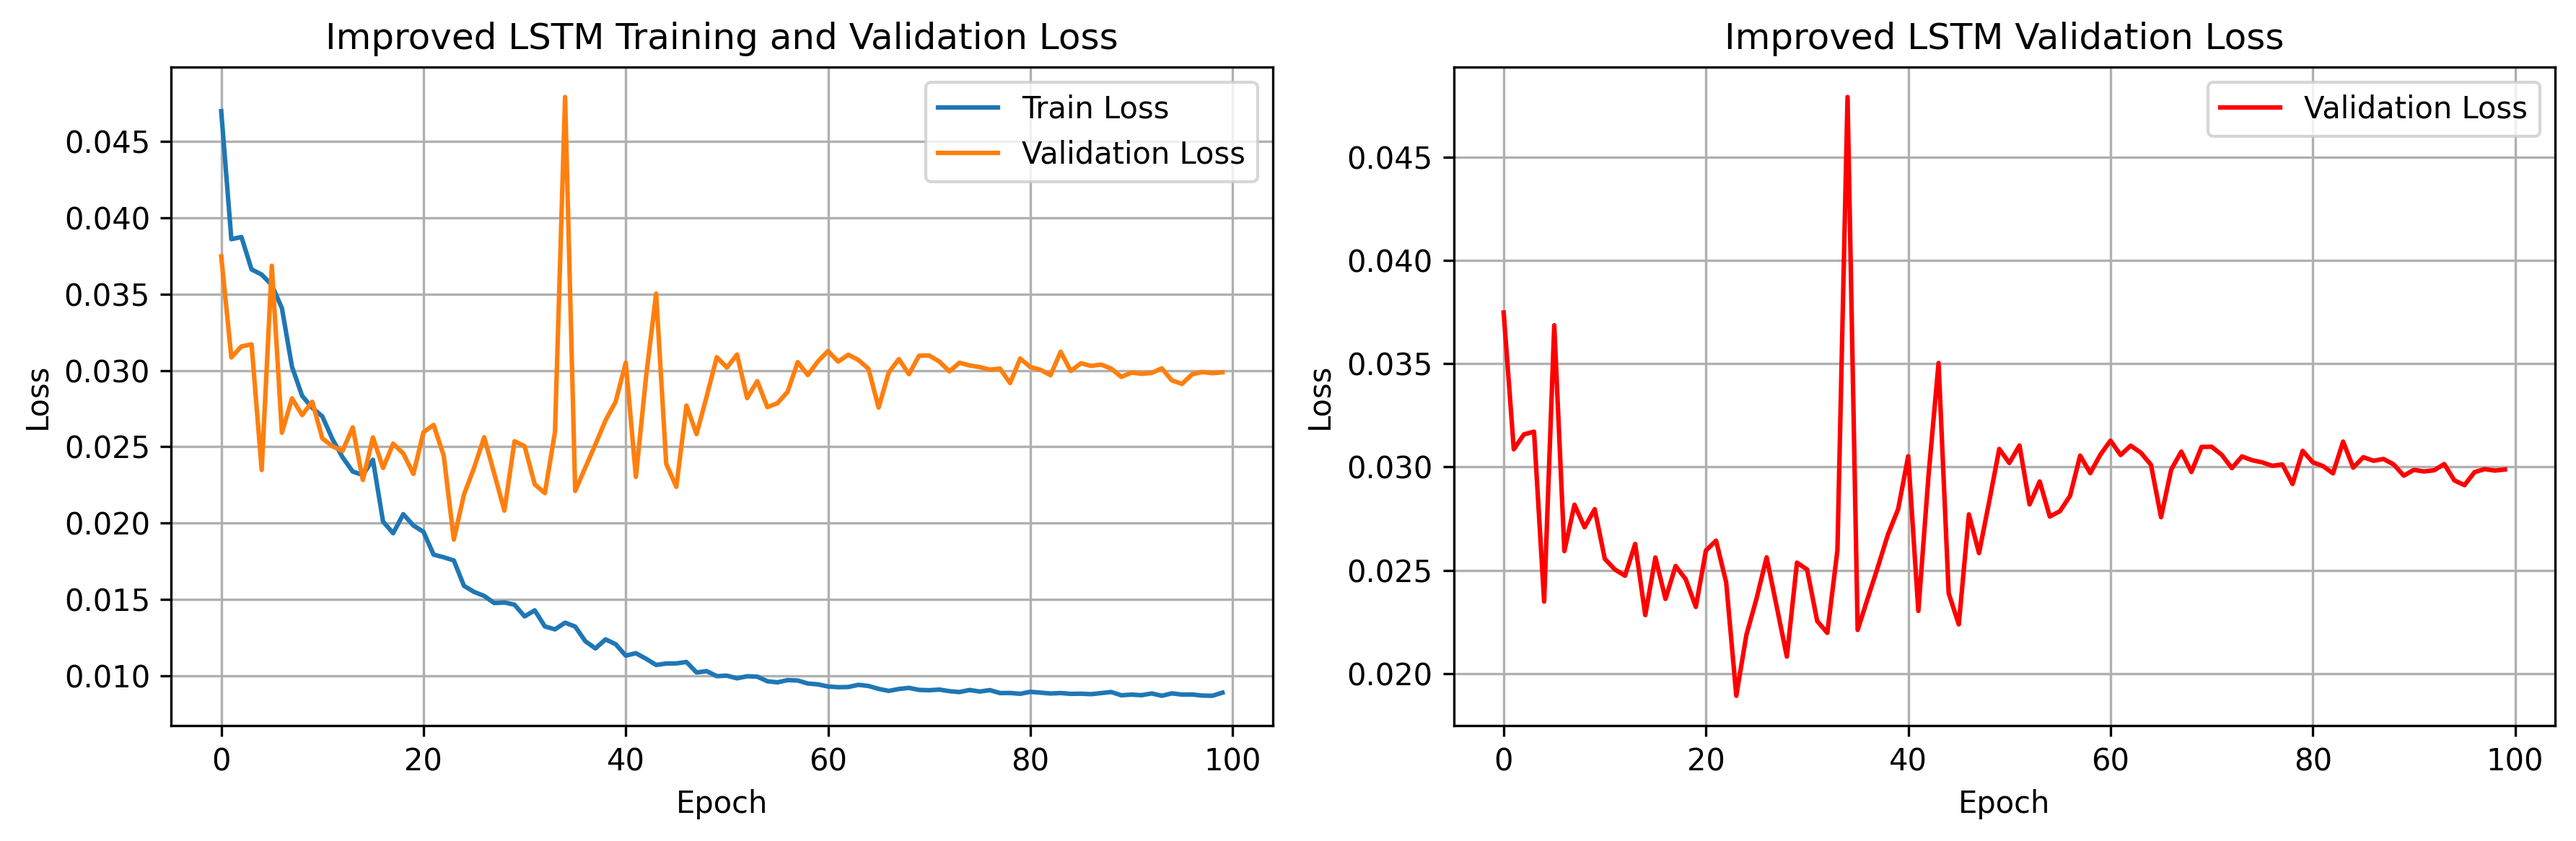
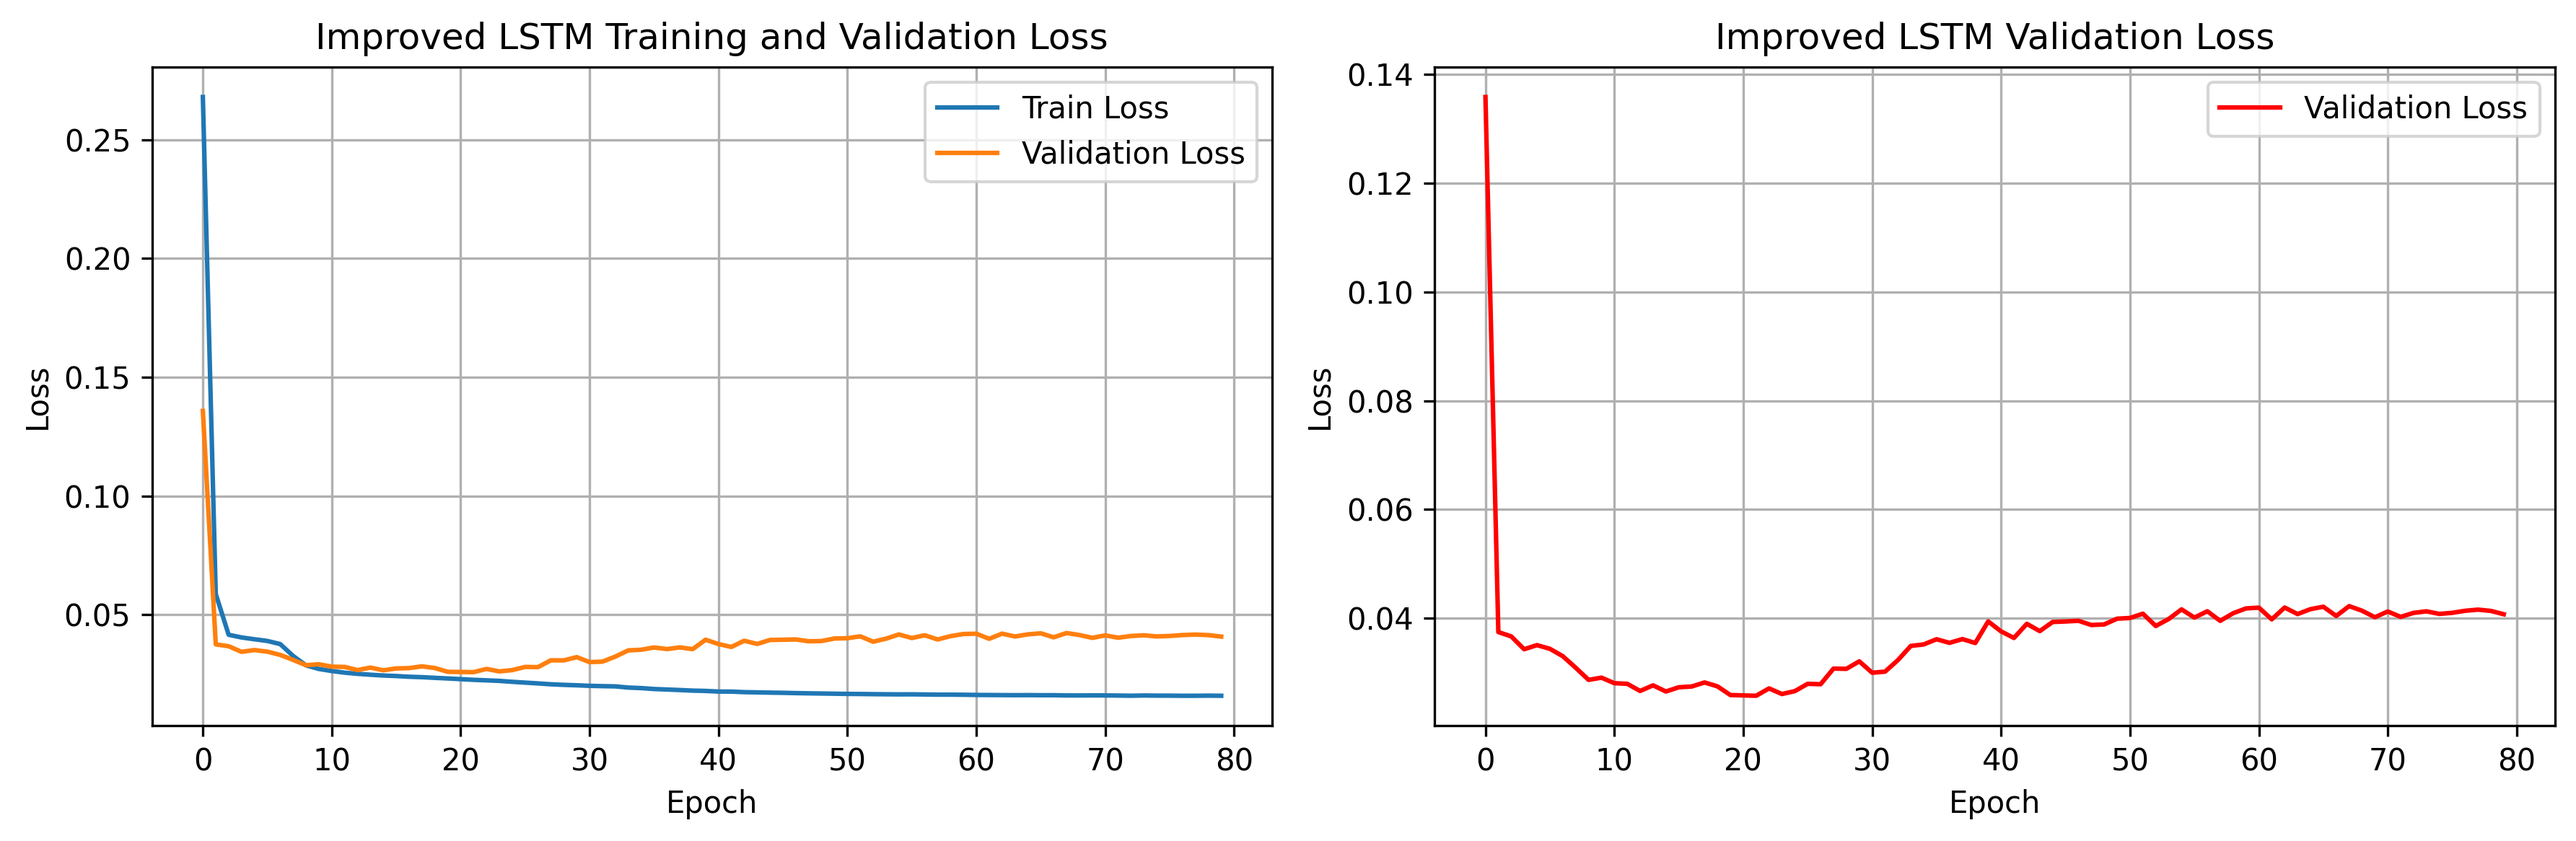
🎉 FEAT : reshape_csv (NASA battery raw data -> merged data) 파일 업로드, test_deepsc_battery에서 transformer -> deepsc로 문자열 변경

diff --git a/model/test_deepsc_battery.py b/model/test_deepsc_battery.py
@@ -13,7 +13,7 @@ from collections import defaultdict
 
 def create_model(model_type, input_dim, window_size, device):
     """모델 타입에 따라 적절한 모델을 생성하는 함수"""
-    if model_type == "transformer":
+    if model_type == "deepsc":
         # 기존 Transformer 기반 DeepSC 모델
         model = DeepSC(
             num_layers=4,
@@ -24,7 +24,7 @@ def create_model(model_type, input_dim, window_size, device):
             dff=512,
             dropout=0.1
         ).to(device)
-        checkpoint_path = 'checkpoints/250621/deepsc_battery_epoch80.pth'
+        checkpoint_path = 'checkpoints/250703/deepsc_battery_epoch80.pth'
         # checkpoint_path = 'checkpoints/lstm_deepsc_battery/lstm_deepsc_battery_epoch100.pth'
         
     elif model_type == "lstm":
@@ -36,7 +36,7 @@ def create_model(model_type, input_dim, window_size, device):
             num_layers=2,
             dropout=0.1
         ).to(device)
-        checkpoint_path = 'checkpoints/lstm_deepsc_battery/lstm_deepsc_battery_epoch80.pth'
+        checkpoint_path = 'checkpoints/lstm_deepsc_battery/lstm_deepsc_battery_epoch20.pth'
         
     elif model_type == "gru":
         # GRU 기반 모델
@@ -54,7 +54,7 @@ def create_model(model_type, input_dim, window_size, device):
     
     return model, checkpoint_path
 
-def test_deepsc_battery(model_type="transformer"):
+def test_deepsc_battery(model_type="deepsc"):
     print(f"=== {model_type.upper()} 기반 배터리 데이터 압축-복원 검증 ===")
     
     # 1. 데이터 로드
@@ -113,7 +113,7 @@ def test_deepsc_battery(model_type="transformer"):
     total_compression_ratio = 0
     
     # 복원된 시계열을 csv로 저장할 폴더
-    save_dir = f'reconstructed_{model_type}'
+    save_dir = f'reconstructed_{"deepsc"}'
     os.makedirs(save_dir, exist_ok=True)
     feature_cols = ['Voltage_measured', 'Current_measured', 'Temperature_measured', 'Current_load', 'Voltage_load', 'Time']
 
@@ -133,7 +133,7 @@ def test_deepsc_battery(model_type="transformer"):
                 print(f"Sample {i}: Output shape: {output.shape}")
                 
                 # 압축률 계산
-                if model_type == "transformer":
+                if model_type == "deepsc":
                     # Transformer 모델의 경우 기존 방식 사용
                     encoded = model.encoder(input_data, src_mask=None)
                     channel_encoded = model.channel_encoder(encoded)
@@ -264,7 +264,7 @@ def test_deepsc_battery(model_type="transformer"):
     else:
         print("낮은 압축 효율성: 압축률이 낮습니다.")
 
-def reconstruct_battery_series(model_type="transformer"):
+def reconstruct_battery_series(model_type="deepsc"):
     """
     전체 배터리 시계열을 복원하는 함수 (recon.py에서 가져온 기능)
     """
@@ -352,12 +352,29 @@ def reconstruct_battery_series(model_type="transformer"):
             plt.savefig(fig_path, dpi=200)
             plt.close()
             print(f"비교 그래프 저장: {fig_path}")
+            
+            # Residual(오차) 시계열 플롯 추가
+            plt.figure(figsize=(15, 10))
+            for i, col in enumerate(feature_cols):
+                plt.subplot(2, 3, i+1)
+                residual = df_orig[col] - df_recon[col]
+                plt.plot(residual, label='Residual', color='orange', alpha=0.8)
+                plt.title(f'Residual: {col}')
+                plt.axhline(0, color='gray', linestyle='--', linewidth=1)
+                plt.legend()
+                plt.grid(True)
+            plt.suptitle(f'{model_type.upper()} Residuals: {fname}')
+            plt.tight_layout(rect=[0, 0, 1, 0.96])
+            residual_fig_path = os.path.join(save_dir, f'{base}_residual.png')
+            plt.savefig(residual_fig_path, dpi=200)
+            plt.close()
+            print(f"Residual 그래프 저장: {residual_fig_path}")
 
     # 6. 카운트 배열 확인
     for fname in battery_files:
         print(f"{fname} counts unique: {np.unique(counts[fname])}")
 
-def compare_original_reconstructed(model_type="transformer"):
+def compare_original_reconstructed(model_type="deepsc"):
     """
     원본 데이터와 복원 데이터를 비교하는 함수
     """
@@ -395,7 +412,7 @@ def compare_all_models():
     """
     print("=== 모든 모델 성능 비교 ===")
     
-    models = ["transformer", "lstm", "gru"]
+    models = ["deepsc", "lstm", "gru"]
     results = {}
     
     for model_type in models:
@@ -420,7 +437,7 @@ def compare_all_models():
                 output = model(input_data)
                 mse = nn.MSELoss()(output, input_data).item()
                 
-                if model_type == "transformer":
+                if model_type == "deepsc":
                     encoded = model.encoder(input_data, src_mask=None)
                     channel_encoded = model.channel_encoder(encoded)
                     compressed_size = channel_encoded.numel()
@@ -462,45 +479,45 @@ if __name__ == "__main__":
     print("2. 개별 window 압축-복원 테스트")
     print("3. 전체 배터리 시계열 복원")
     print("4. 원본 vs 복원 데이터 비교")
-    print("5. 모든 기능 실행")
+    print("5. 1개 모델의 2,3,4 모든 기능 실행")
     
-    choice = input("원하는 옵션을 선택하세요 (1-8): ").strip()
+    choice = input("원하는 옵션을 선택하세요 (1-5): ").strip()
     
     if choice == "1":
         compare_all_models()
         exit()
     elif choice == "2":
-        model_choice = input("모델을 선택하세요 (transformer/lstm/gru): ").strip().lower()
-        if model_choice in ["transformer", "lstm", "gru"]:
+        model_choice = input("모델을 선택하세요 (deepsc/lstm/gru): ").strip().lower()
+        if model_choice in ["deepsc", "lstm", "gru"]:
             test_deepsc_battery(model_choice)
         else:
-            print("잘못된 모델 선택입니다. 기본값으로 Transformer를 사용합니다.")
-            test_deepsc_battery("transformer")
+            print("잘못된 모델 선택입니다. 기본값으로 deepsc를 사용합니다.")
+            test_deepsc_battery("deepsc")
     elif choice == "3":
-        model_choice = input("모델을 선택하세요 (transformer/lstm/gru): ").strip().lower()
-        if model_choice in ["transformer", "lstm", "gru"]:
+        model_choice = input("모델을 선택하세요 (deepsc/lstm/gru): ").strip().lower()
+        if model_choice in ["deepsc", "lstm", "gru"]:
             reconstruct_battery_series(model_choice)
         else:
-            print("잘못된 모델 선택입니다. 기본값으로 Transformer를 사용합니다.")
-            reconstruct_battery_series("transformer")
+            print("잘못된 모델 선택입니다. 기본값으로 deepsc를 사용합니다.")
+            reconstruct_battery_series("deepsc")
     elif choice == "4":
-        model_choice = input("모델을 선택하세요 (transformer/lstm/gru): ").strip().lower()
-        if model_choice in ["transformer", "lstm", "gru"]:
+        model_choice = input("모델을 선택하세요 (deepsc/lstm/gru): ").strip().lower()
+        if model_choice in ["deepsc", "lstm", "gru"]:
             compare_original_reconstructed(model_choice)
         else:
-            print("잘못된 모델 선택입니다. 기본값으로 Transformer를 사용합니다.")
-            compare_original_reconstructed("transformer")
+            print("잘못된 모델 선택입니다. 기본값으로 deepsc를 사용합니다.")
+            compare_original_reconstructed("deepsc")
     elif choice == "5":
-        model_choice = input("모델을 선택하세요 (transformer/lstm/gru): ").strip().lower()
-        if model_choice in ["transformer", "lstm", "gru"]:
+        model_choice = input("모델을 선택하세요 (deepsc/lstm/gru): ").strip().lower()
+        if model_choice in ["deepsc", "lstm", "gru"]:
             test_deepsc_battery(model_choice)
             reconstruct_battery_series(model_choice)
             compare_original_reconstructed(model_choice)
         else:
-            print("잘못된 모델 선택입니다. 기본값으로 Transformer를 사용합니다.")
-            test_deepsc_battery("transformer")
-            reconstruct_battery_series("transformer")
-            compare_original_reconstructed("transformer")
+            print("잘못된 모델 선택입니다. 기본값으로 deepsc를 사용합니다.")
+            test_deepsc_battery("deepsc")
+            reconstruct_battery_series("deepsc")
+            compare_original_reconstructed("deepsc")
     else:
-        print("잘못된 선택입니다. 기본값으로 Transformer 모델의 개별 window 테스트를 실행합니다.")
-        test_deepsc_battery("transformer") 
+        print("잘못된 선택입니다. 기본값으로 deepsc 모델의 개별 window 테스트를 실행합니다.")
+        test_deepsc_battery("deepsc") 

diff --git a/data_handling/reshape_csv.py b/data_handling/reshape_csv.py
@@ -1,0 +1,37 @@
+import os
+import pandas as pd
+
+# 메타데이터 로딩
+meta_df = pd.read_csv("discharge_metadata_with_cycle_idx.csv")
+
+# 데이터 폴더 경로 (현재 디렉토리 기준)
+data_dir = "./data"
+
+# 결과 저장 폴더 (없으면 생성)
+output_dir = "./merged"
+os.makedirs(output_dir, exist_ok=True)
+
+# 배터리 ID별로 그룹핑
+for battery_id, group in meta_df.groupby("battery_id"):
+    merged_df = pd.DataFrame()
+
+    for _, row in group.iterrows():
+        filename = row['filename']
+        cycle_idx = row['cycle_idx']
+
+        file_path = os.path.join(data_dir, filename)
+
+        if os.path.exists(file_path):
+            try:
+                df = pd.read_csv(file_path)
+                df['cycle_idx'] = cycle_idx  # 각 파일에 cycle_idx 추가
+                merged_df = pd.concat([merged_df, df], ignore_index=True)
+            except Exception as e:
+                print(f"파일 {filename} 로딩 실패: {e}")
+        else:
+            print(f"파일 없음: {filename}")
+
+    # 통합된 결과를 battery_id.csv로 저장
+    output_path = os.path.join(output_dir, f"{battery_id}.csv")
+    merged_df.to_csv(output_path, index=False)
+    print(f"저장 완료: {output_path}")

diff --git a/model/train_deepsc_battery.py b/model/train_deepsc_battery.py
@@ -5,6 +5,7 @@ from torch.utils.data import DataLoader
 import joblib
 from models.transceiver import DeepSC
 from torch.optim.lr_scheduler import ReduceLROnPlateau
+import pdb
 
 def train_deepsc_battery(
     train_pt='model/preprocessed_data/train_data.pt',
@@ -32,6 +33,7 @@ def train_deepsc_battery(
     # 모델 초기화
     input_dim = train_tensor.shape[2]
     window_size = train_tensor.shape[1]
+    pdb.set_trace()
     model = DeepSC(
         num_layers=4,
         input_dim=input_dim,
@@ -43,7 +45,8 @@ def train_deepsc_battery(
     ).to(device)
 
     # 손실함수 및 옵티마이저
-    criterion = nn.MSELoss()
+    # criterion = nn.MSELoss()
+    criterion = nn.L1Loss()
     optimizer = optim.Adam(model.parameters(), lr=lr)
     scheduler = ReduceLROnPlateau(optimizer, mode='min', factor=0.5, patience=10, verbose=True)
 
@@ -78,7 +81,7 @@ def train_deepsc_battery(
         scheduler.step(avg_val_loss)
 
         # (선택) 모델 저장
-        torch.save(model.state_dict(), f"checkpoints/250702/deepsc_battery_epoch{epoch+1}.pth")
+        torch.save(model.state_dict(), f"checkpoints/250703/deepsc_battery_epoch{epoch+1}.pth")
 
     print("학습 완료!")
 

diff --git a/model/train_improved_lstm_gru.py b/model/train_improved_lstm_gru.py
@@ -12,7 +12,7 @@ import pickle
 from models.lstm_gru_models import LSTMDeepSC, GRUDeepSC
 import pdb
 
-def train_improved_model(model_type, num_epochs=100, batch_size=32, learning_rate=1e-3):
+def train_improved_model(model_type, num_epochs=80, batch_size=32, learning_rate=1e-5):
     """
     개선된 LSTM 또는 GRU 모델을 학습하는 함수
     

diff --git a/data_handling/create_deepsc_dataset.py b/data_handling/create_deepsc_dataset.py
@@ -91,5 +91,8 @@ if __name__ == '__main__':
         input_folder=INPUT_FOLDER,
         output_folder=OUTPUT_FOLDER,
         selected_batteries=SELECTED_BATTERIES,
-        feature_cols=FEATURE_COLS
+        feature_cols=FEATURE_COLS,
+        window_size=128,
+        stride=64,
+        split_ratio=0.8
     ) 

diff --git a/model/preprocess_time_series.py b/model/preprocess_time_series.py
@@ -109,6 +109,6 @@ if __name__ == '__main__':
         batch_size=8,
         save_split_path="./model/preprocessed_data",
         split_ratio=0.8,
-        window_size=256,
-        stride=128,
+        window_size=128,
+        stride=64,
     )

diff --git a/README.md b/README.md
@@ -2,11 +2,12 @@
 
 ## 프로젝트 실행 방법
 1. zip 다운로드 후 colab에서 프로젝트로 등록
-2. requirements.txt대로 라이브러리 설치하기 위해서 !pip install -r requirements.txt 명령어 실행
+2. requirements2.txt대로 라이브러리 설치하기 위해서 !pip install -r requirements2.txt 명령어 실행
 3. 이후 다음 순서로 코드 실행
-    create_deepsc_dataset.py : 데이터 생성
+    create_deepsc_dataset.py : 데이터 생성 -> x 이제 안씀
+    preprocess_time_series.py : 전처리 데이터 생성 
     - DeepSC 테스트일 경우
-    train_deepsc_battery.py
+    train_deepsc_battery.py 
         모델 저장 경로(line 80 근처)는 본인이 원하는 곳으로 설정후 테스트에서 경로 불러오는 코드(line 14~)와 맞추기 
     test_deepsc_battery.py -> 옵션 2,3,4,5 -> deepsc
     - LSTM, GRU 테스트일 경우

diff --git a/model/README_LSTM_GRU.md b/model/README_LSTM_GRU.md
@@ -58,18 +58,6 @@ cd model
 python test_deepsc_battery.py
 ```
 
-**모델 선택:**
-- 1: Transformer 기반 DeepSC
-- 2: LSTM 기반 DeepSC
-- 3: GRU 기반 DeepSC
-- 4: 모든 모델 비교
-
-**기능 선택:**
-- 5: 개별 window 압축-복원 테스트
-- 6: 전체 배터리 시계열 복원
-- 7: 원본 vs 복원 데이터 비교
-- 8: 모든 기능 실행
-
 ## 📊 모델 비교
 
 ### 성능 지표
